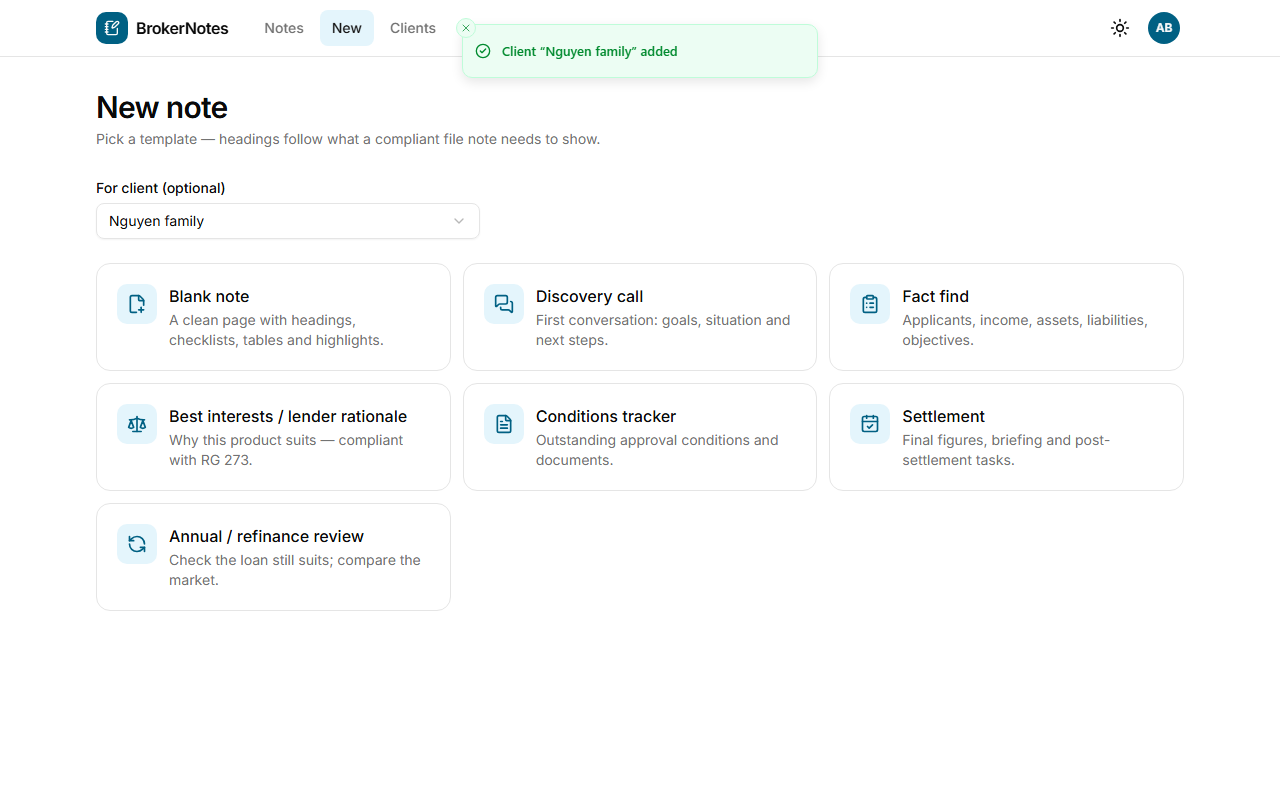
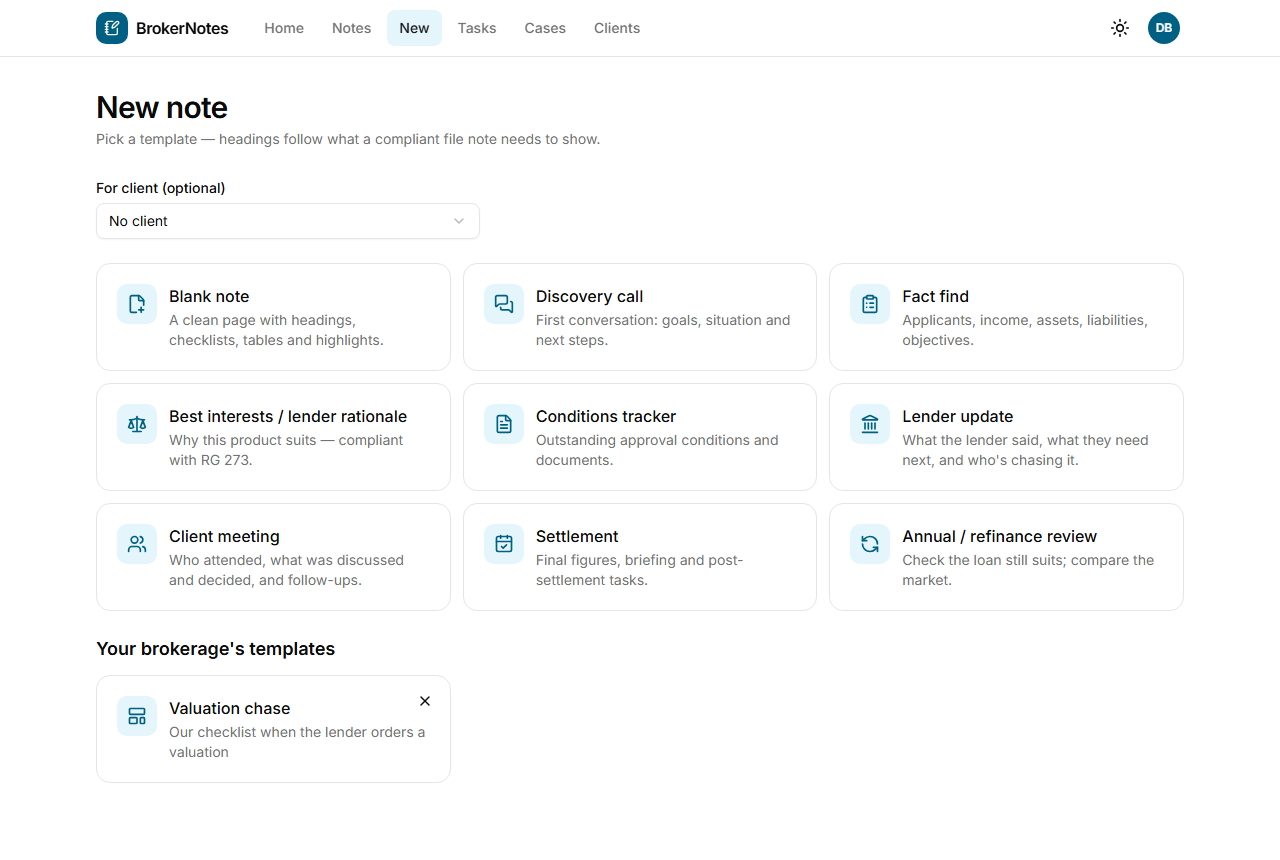
docs: editor reliability features, decisions and screenshots

diff --git a/SCRATCHPAD.md b/SCRATCHPAD.md
@@ -90,7 +90,7 @@ The working log for the build. It's updated in every PR and records progress, de
   - [x] Web: dashboard as the landing page; Cases list (status, stage and mine chips, search); case page with a clickable 9-stage pipeline, facts and a note timeline; cases on the client page; Case field in note details; "new note for case"; 5-tab mobile nav
   - [x] **Layout hardening:** a new E2E test visits 7 pages with very long names and fails on any sideways scroll. It found 4 real overflows (dashboard, client page, clients list, case dialog). All were fixed at the root (`grid-cols-1` / `min-w-0` / `overflow-wrap`).
   - [x] Tests: 8 shared, **7 API integration** (42 total), 2 new E2E flows (36/36)
-- [ ] **Phase 10: Follow-up tasks** (`phase-10/follow-up-tasks`, tracking issue #36)
+- [x] **Phase 10: Follow-up tasks** (PR #41, merged) (`phase-10/follow-up-tasks`, tracking issue #36)
   - [x] `Task`: status, priority, due day, assignee, creator, `completedAt`/`By`; links to note, client and case kept consistent (note → its client and case; case → its client). The migration is additive only.
   - [x] API: list (status, assignee me/unassigned/id, due overdue/today/week, note, client, case, search), create, **batch from a note** (≤20, one audit entry), update (complete, reopen, cancel, reassign). Creator, assignee or admin only (403). Audited.
   - [x] Shared: `openChecklistItems` (unticked items, nested lists, de-duplicated, capped), `canChangeTask`, schemas
@@ -98,7 +98,13 @@ The working log for the build. It's updated in every PR and records progress, de
   - [x] Fixed: the note header overflowed on phones once the Tasks button was added (the layout E2E now covers note pages)
   - [x] **Found and worked around a production-only navigation stall** (pre-existing since Phase 9): see Open issues
   - [x] Tests: 8 shared, **6 API integration** (48 total), new tasks E2E (38/38)
-- [ ] Phase 11: Editor and reliability extras (#37)
+- [ ] **Phase 11: Editor and reliability extras** (`phase-11/editor-reliability`, tracking issue #37)
+  - [x] **Optimistic concurrency:** `Note.revision`; the save is a conditional `updateMany` on the base revision (atomic, so no lost update under concurrency); 409 `NOTE_CONFLICT` returns the latest version; autosave pauses with edits kept; a Load theirs / Keep mine banner
+  - [x] **Local draft recovery:** unsaved edits mirrored to localStorage, cleared on save; on open, a differing draft (under 7 days old) is offered, with a warning if the note has moved on since. Pure logic in `shared/notes/drafts`.
+  - [x] **Slash commands** (`@tiptap/suggestion` 3.35.0): headings, checklist, lists, table, quote, divider; keyboard navigation; broker keywords ("todo", "compare")
+  - [x] **Favourites** (per member) and **Drafts** filters; **brokerage templates** (save a note as a template; admin/adviser create, everyone uses, creator/admin archive; audited); **Lender update** and **Client meeting** templates
+  - [x] Fixed: the favourite button's label used the title from page load (stale after renaming)
+  - [x] Tests: 6 shared, **5 API integration** (53 total), 9 web unit (incl. conflict mapping and slash filtering), 3 E2E flows: two-tab conflict, offline draft recovery, slash/favourites/templates (44/44)
 - [ ] Phase 12: Go live (#38). Owner: rotate the Neon password, create the Render and Vercel projects, then the live smoke test.
 
 ---
@@ -163,6 +169,10 @@ The working log for the build. It's updated in every PR and records progress, de
 | 2026-11-28 | Keep-warm workflow (business hours only)                                                                          | Render's free plan sleeps after 15 minutes. Pinging only during AU business hours keeps the demo responsive within the free hours.                                                                                    |
 | 2026-11-28 | Seed script in plain CommonJS that reuses the compiled shared package                                             | No extra dependencies (no tsx). It uses the real templates and Sydney-date helpers, so seeded data matches what the app creates.                                                                                      |
 | 2026-11-28 | Build the owner's research-doc features, but **keep Australia** (RG 273, AUD)                                     | The owner chose this. The doc's UK framing (FCA, £) doesn't match the hiring context.                                                                                                                                 |
+| 2026-11-29 | Optimistic concurrency (revision numbers) instead of real-time co-editing                                         | Catches every lost-update case with a small change; live collaboration (CRDTs, websockets) isn't worth the cost for single-author file notes.                                                                         |
+| 2026-11-29 | The conflict check is a conditional update, not read-then-write                                                   | Two saves on the same base revision can't both win, even if they run at the same moment.                                                                                                                              |
+| 2026-11-29 | Local drafts in localStorage, not IndexedDB                                                                       | Small text documents; a synchronous API is simplest, and failures (private mode, full storage) degrade to plain autosave.                                                                                             |
+| 2026-11-29 | Brokerage templates are archived, not deleted                                                                     | Notes created from them stay explainable in the audit trail.                                                                                                                                                          |
 | 2026-11-28 | Tasks are cancelled, never deleted                                                                                | Follow-ups are part of the compliance trail; the audit log keeps who did what.                                                                                                                                        |
 | 2026-11-28 | Creator, assignee or admin may change a task; anyone may create                                                   | Case managers need to raise and chase follow-ups; other members can see but not alter someone else's task.                                                                                                            |
 | 2026-11-28 | Plain links for filter chips instead of `next/link`                                                               | Works around a production-only Next.js navigation stall; server-rendered pages lose little from a full load.                                                                                                          |
@@ -225,3 +235,4 @@ The app is built with Claude Code (Claude Opus 5.5) as a pair programmer. The hu
 | 8        | Owner pasted a full product-research document ("make sure we have these") and then said "merged"         | Compared the document section by section with the app, asked about the market, scope and timing, and created Phases 8 to 12 (issues #34 to #38). Built organisations, roles, invites and the audit log, with a backfilling migration. The E2E run caught a mobile overflow on the Team page (a long email in a CSS grid), and a redirect loop for deactivated members was found and fixed.             |
 | 9        | "merged" → Phase 9                                                                                       | Built mortgage cases (9-stage pipeline), notes ↔ cases and the dashboard. Every new integration test passed on the first run. A screenshot review spotted a wide mobile dashboard, which led to a generic "no sideways scroll" E2E test that found and fixed 4 overflow bugs, including one from Phase 4.                                                                                              |
 | 10       | "merged" → Phase 10; owner asked why it was slow                                                         | Built follow-up tasks. One E2E failure turned out to be a production-only Next.js navigation stall that also affects Phase 9 pages. Bisected with repeat probes (network, DB, prefetch, hydration, forms, the dev server, `main`), then time-boxed it and shipped a reliable workaround (plain-link filter chips, 36/36 clicks). Also hit `ENOSPC` from the full C: drive and moved test output to D:. |
+| 11       | "merged … meanwhile continue" (owner viewing the app)                                                    | Ran the viewing app from a snapshot on D: so builds and tests couldn't disturb it. Built revisions and conflicts, draft recovery, slash commands, favourites, the drafts filter and brokerage templates. The E2E run found a stale accessible name on the star button.                                                                                                                                 |

diff --git a/README.md b/README.md
@@ -52,6 +52,15 @@ the assignment. The findings shaped the product:
 - **Autosave you can trust:** saves after a short pause, **at least every 5 seconds while typing**, and **when the app is backgrounded on a phone**. Ctrl+S saves straight away, a failed save offers retry, and the browser warns before you leave with unsaved changes.
 - **Mobile-first:** the toolbar sticks to the top and scrolls sideways, with 44px touch targets.
 
+**🛡 Never lose work (Phase 11)**
+
+- **Edit-conflict protection:** every save carries the revision it was based on. If the note changed in another tab or by a colleague, the save is refused instead of silently overwriting, and you choose **Load their version** or **Keep mine** (the other version stays in history).
+- **Draft recovery:** unsaved edits are mirrored in the browser. After a crash, a closed tab or a dropped connection, reopening the note offers **Restore my changes**.
+- **Slash commands:** type `/` for headings, checklists, tables, quotes and dividers.
+- **Favourites and Drafts** filters, plus **brokerage templates**: admins and advisers can save any note's structure as a template for the whole brokerage. Also new built-in **Lender update** and **Client meeting** templates.
+
+<img src="docs/screenshots/edit-conflict-desktop.png" width="640" alt="Edit conflict banner">
+
 **🗂 Notes list**
 
 - **Search** across title, body and client name, with highlighted matches.
@@ -234,4 +243,4 @@ Every phase's PR is in the [closed pull requests](https://github.com/Grohit22013
 - Render's free plan sleeps when idle; the keep-warm workflow helps during business hours.
 - Free AI models can be rate-limited upstream. The app falls back across free models and explains when it's busy.
 - Filter chips on server-rendered list pages use plain links (a full page load), because in production builds Next.js 15.5 sometimes never applies a client navigation that only changes the query string. See SCRATCHPAD "Open issues".
-- Coming next (from the product research): editor extras such as edit-conflict detection and draft recovery (Phase 11).
+- Coming next: going live (Phase 12). Real-time co-editing isn't included: conflicts are detected and resolved, not merged live.
